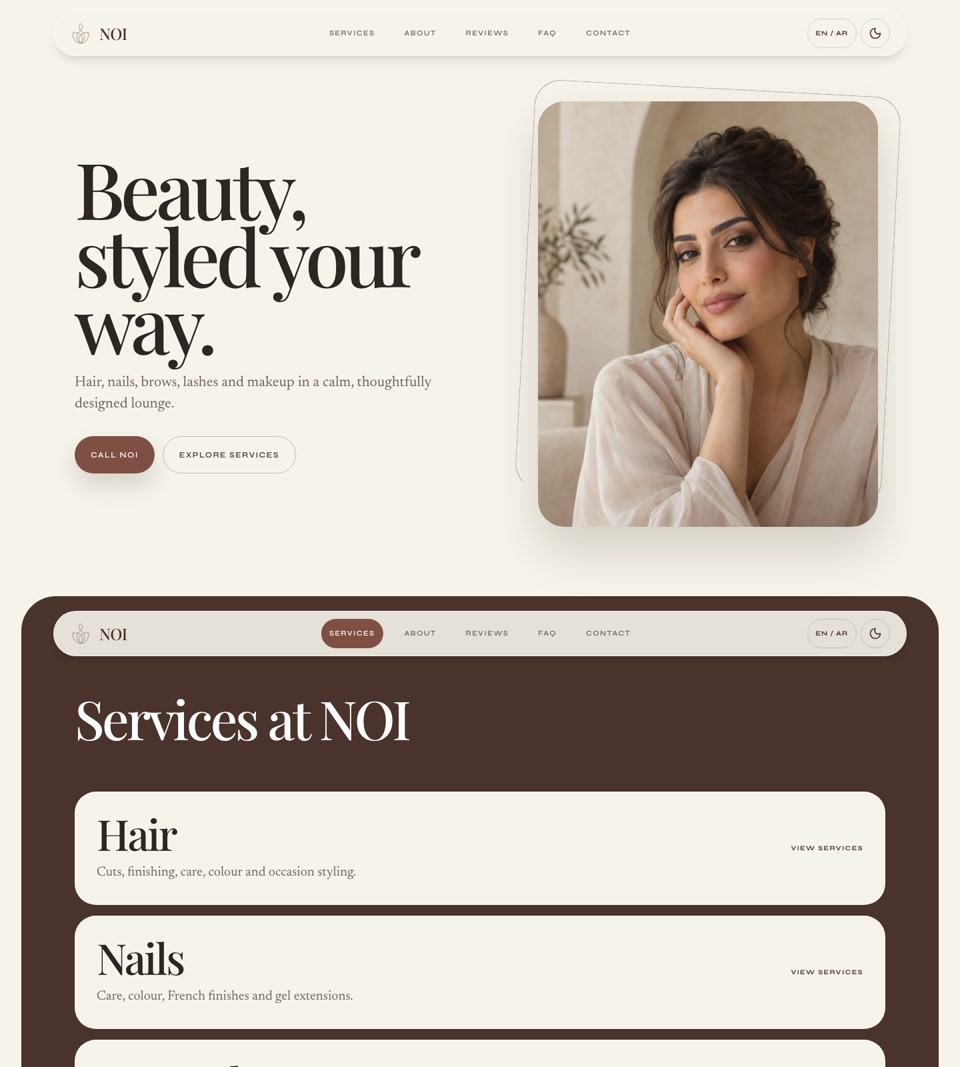
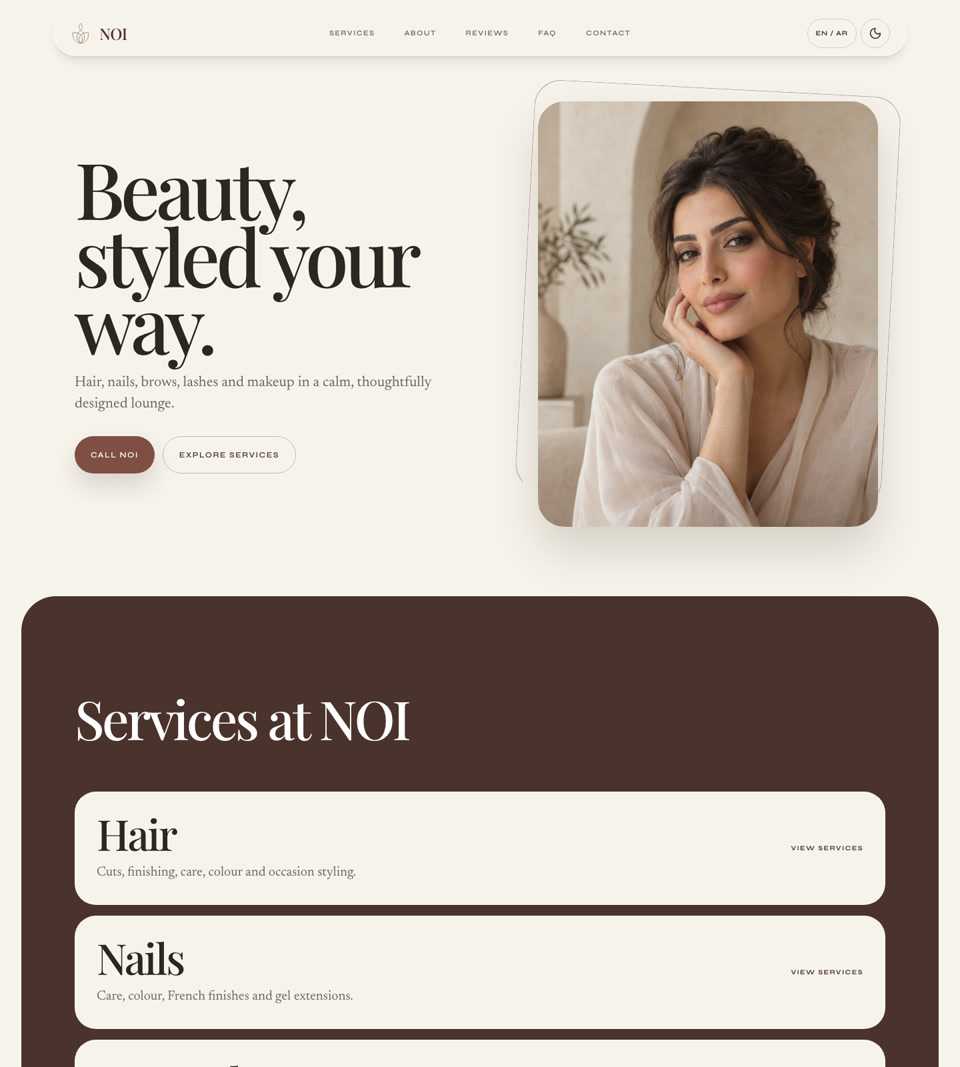
Use continuous NOI website screenshot

Changed region(s): [[0.0312, 0.5567, 0.9688, 0.6186]]

diff --git a/index.html b/index.html
@@ -323,7 +323,7 @@
           <article class="project-card flip-card" tabindex="0">
             <div class="flip-inner">
             <div class="flip-face flip-front card-shell">
-              <div class="project-shot"><img src="images/projects/noi-beauty-lounge-front.jpg?v=20261008fixed" width="960" height="1067" alt="NOI Beauty Lounge salon website concept hero" loading="lazy"></div>
+              <div class="project-shot"><img src="images/projects/noi-beauty-lounge-front.jpg?v=20261008continuous" width="960" height="1067" alt="NOI Beauty Lounge salon website concept hero and services" loading="lazy"></div>
               <div class="project-head">
                 <h3 class="project-title">NOI Beauty Lounge</h3>
                 <div class="project-badges">

diff --git a/projects.html b/projects.html
@@ -135,7 +135,7 @@
           <article class="project-card flip-card" tabindex="0">
             <div class="flip-inner">
             <div class="flip-face flip-front card-shell">
-              <div class="project-shot"><img src="images/projects/noi-beauty-lounge-front.jpg?v=20261008fixed" width="960" height="1067" alt="NOI Beauty Lounge salon website concept hero" loading="lazy"></div>
+              <div class="project-shot"><img src="images/projects/noi-beauty-lounge-front.jpg?v=20261008continuous" width="960" height="1067" alt="NOI Beauty Lounge salon website concept hero and services" loading="lazy"></div>
               <div class="project-head">
                 <h3 class="project-title">NOI Beauty Lounge</h3>
                 <div class="project-badges">
